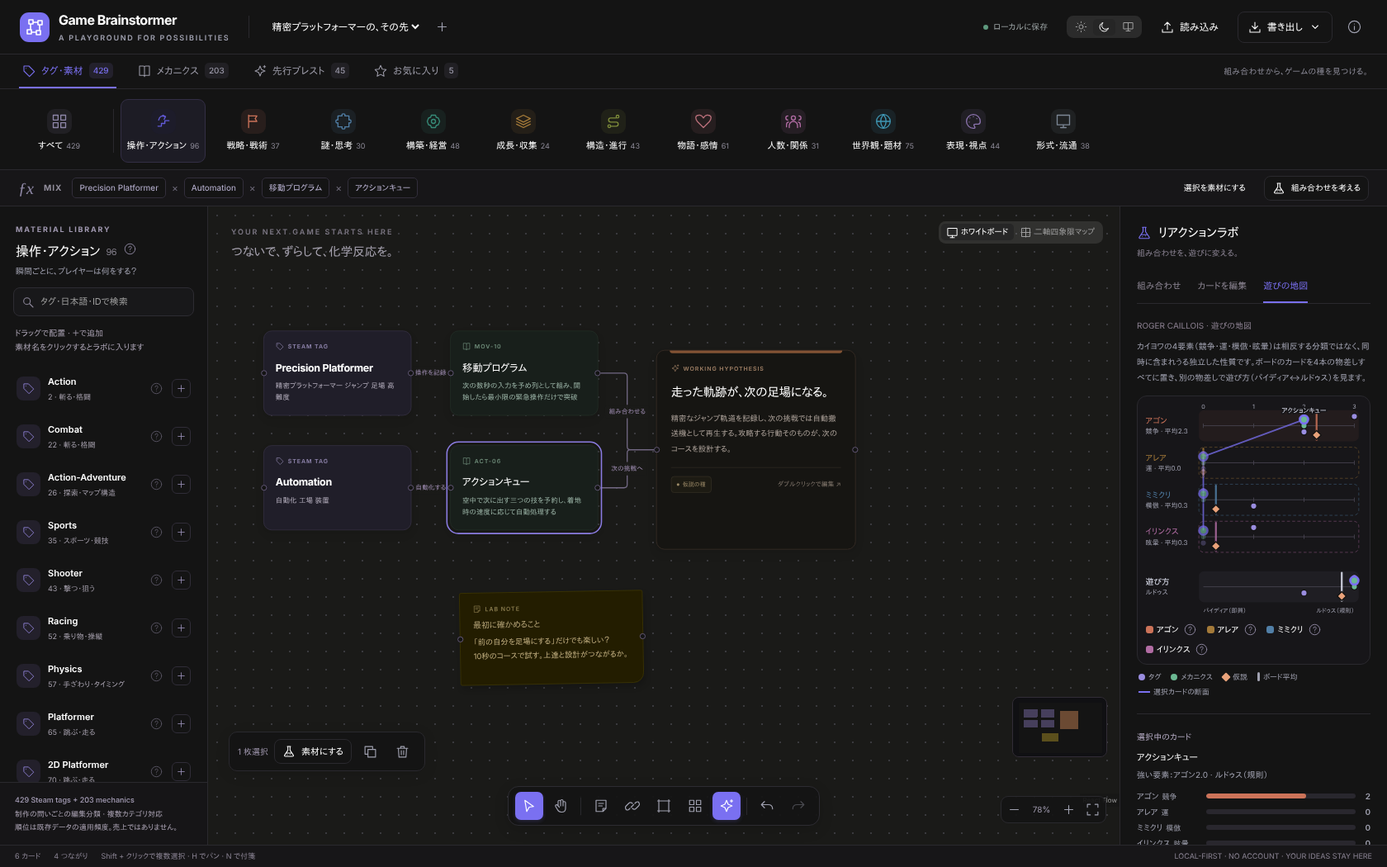
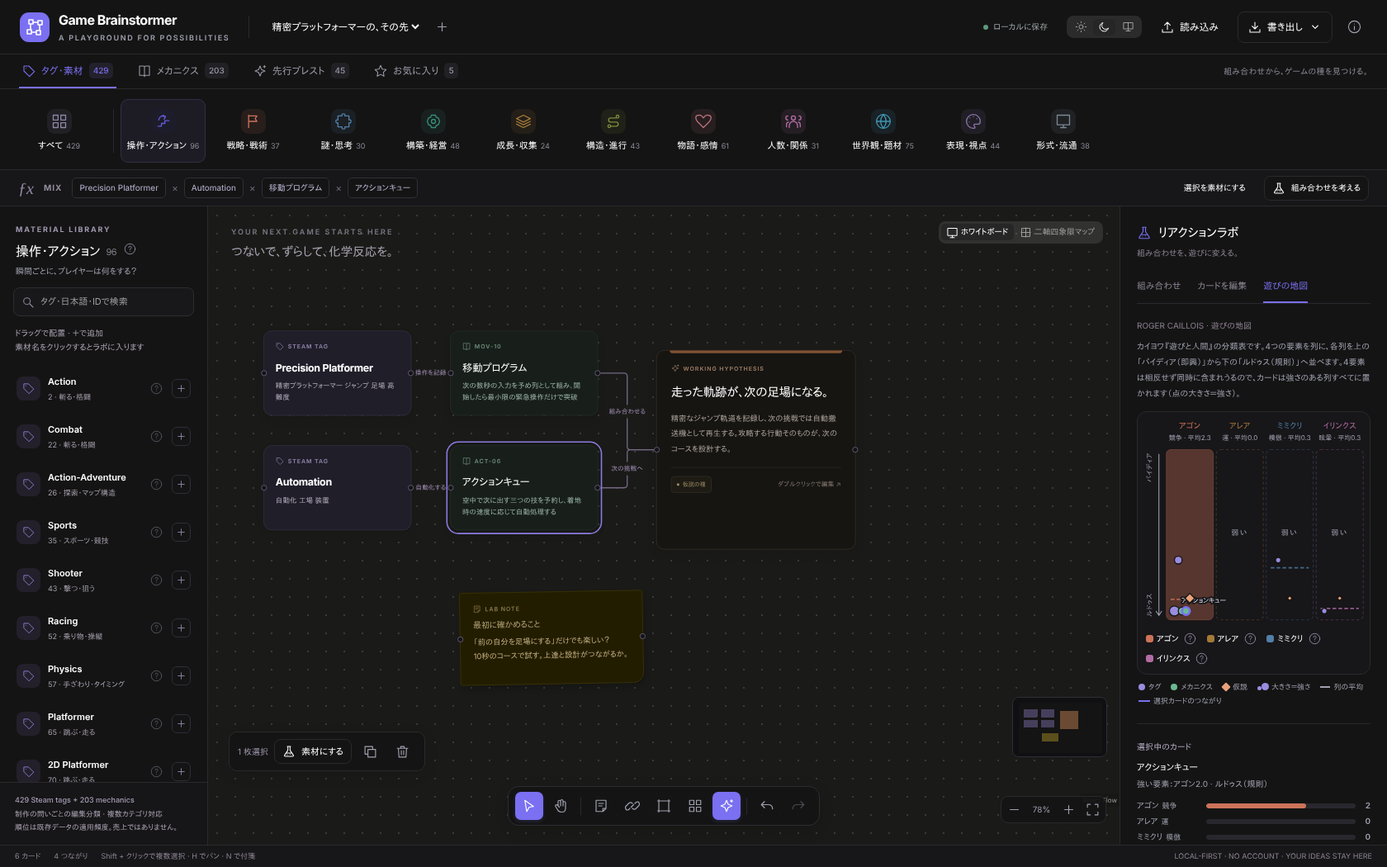
feat: restore the column layout for the Caillois map, keep independent elements
Bring back the earlier look — four element columns with tint, paidia (top) to
ludus (bottom), per-column dashed ludus average — while keeping the current
model: a card appears in every column where it has strength (marker size =
0-3 intensity), the selected card is linked across columns, column tint follows
the board's average intensity (not an exclusive share), and the pairings panel
and weak-element suggestions stay. Adds a per-element ludus average to the core.

Claude-Session: https://claude.ai/code/session_013pZRoNFywcvFNR1PtNmvYd

Changed region(s): [[0.8048, 0.3962, 0.9905, 0.9752], [0.9595, 0.6705, 0.9905, 0.701], [0.9595, 0.6095, 0.9905, 0.64]]

diff --git a/src/components/PlayMap.tsx b/src/components/PlayMap.tsx
@@ -6,23 +6,24 @@ import { Icon } from './Icons.tsx';
 import { HelpPopover, PlayBars } from './Help.tsx';
 
 /**
- * Component 1 — Caillois' elements of play as four independent scales.
- * Agon, alea, mimicry and ilinx are not opposites: every card sits on all four tracks at
- * once (0-3 each), and the selected card is drawn as one line across them. The manner of
- * play (paidia ↔ ludus) is a separate fifth track. Positions come from catalog data only.
+ * Component 1 — Caillois' map of play, laid out like his table: four columns (agon, alea,
+ * mimicry, ilinx), each running from paidia (top) to ludus (bottom).
+ * The elements are independent, not exclusive classes: a card appears in every column
+ * where it has any intensity (marker size = 0-3 strength), and the selected card is
+ * linked across columns. Column tint follows the board's average strength of that element.
+ * Positions come from catalog data only; nothing is stored.
  */
-const W = 300, LABEL = 74, X0 = LABEL + 8, X1 = W - 14, ROW = 50, TOP = 8;
-const sx = (v: number) => X0 + (v / 3) * (X1 - X0);
-const rowY = (i: number) => TOP + ROW * i + ROW / 2;
-const LUDUS_ROW = PLAY_TYPES.length + 0.35;
-const H = Math.ceil(rowY(LUDUS_ROW) + ROW / 2 + 14);
-/** Spread cards vertically within a track so equal values stay clickable (display only). */
-const jitter = (n: number) => ((n * 5) % 7 - 3) * 4.2;
+const W = 300, LEFT = 30, TOP = 44, H = 230, COL = (W - LEFT) / 4, BOTTOM = TOP + H;
+const colX = (i: number) => LEFT + COL * i;
+const ludusY = (l: number) => TOP + 12 + (l / 3) * (H - 24);
+/** Spread cards horizontally inside a column so equal values stay clickable (display only). */
+const jitter = (i: number) => ((i * 37) % 9 - 4) * 5.2;
 const LUDUS_LABEL = ['パイディア（即興）', 'やや即興', 'やや規則的', 'ルドゥス（規則）'];
 const ludusText = (l: number) => LUDUS_LABEL[Math.max(0, Math.min(3, Math.round(l)))]!;
 const fmt = (v: number) => (Math.round(v * 10) / 10).toFixed(1);
+const radius = (w: number) => 2 + w * 1.6;
 
-function ElementHelp({ type }: {
+function ColumnHelp({ type }: {
     type: PlayType;
 }) {
     const p = playInfo(type);
@@ -44,42 +45,39 @@ export function PlayMap() {
     const suggestions = suggestForPlay(catalog, suggestType, [...used, ...state.tray], 6, seed, end === 'paidia' ? 0 : end === 'ludus' ? 3 : undefined);
     const selected = board.nodes.find(n => n.id === state.selected[0]);
     const selectedItem = profile.items.find(i => i.nodeId === selected?.id);
+    const selIndex = selectedItem ? profile.items.indexOf(selectedItem) : -1;
     const select = (item: PlayItem) => store.ui({ selected: [item.nodeId], selectedEdge: null });
     const onKey = (e: KeyboardEvent, item: PlayItem) => { if (e.key === 'Enter' || e.key === ' ') { e.preventDefault(); select(item); } };
     const describe = (item: PlayItem) => { const s = strongElements(item.weights); return s.length ? s.map(t => `${playInfo(t).label}${fmt(item.weights[t])}`).join('・') : '強い要素なし'; };
-    const selIndex = selectedItem ? profile.items.indexOf(selectedItem) : -1;
+    const selectedCols = selectedItem ? PLAY_TYPES.map((p, i) => ({ i, w: selectedItem.weights[p.id] })).filter(c => c.w > 0) : [];
     return <div className="play-map-panel">
         <p className="inspector-kicker">ROGER CAILLOIS · 遊びの地図</p>
-        <p className="play-intro">カイヨワの4要素（競争・運・模倣・眩暈）は<strong>相反する分類ではなく、同時に含まれうる独立した性質</strong>です。ボードのカードを4本の物差しすべてに置き、別の物差しで遊び方（パイディア↔ルドゥス）を見ます。</p>
+        <p className="play-intro">カイヨワ『遊びと人間』の分類表です。4つの要素を列に、各列を上の「パイディア（即興）」から下の「ルドゥス（規則）」へ並べます。4要素は<strong>相反せず同時に含まれうる</strong>ので、カードは強さのある列すべてに置かれます（点の大きさ＝強さ）。</p>
         <div className="play-map-frame">
-            <svg className="play-map" viewBox={`0 0 ${W} ${H}`} role="group" aria-label="カイヨワの遊びの地図。アゴン・アレア・ミミクリ・イリンクスの独立した4本の物差しと、パイディアからルドゥスへの物差し。">
-                {PLAY_TYPES.map((p, i) => { const y = rowY(i); const lv = profile.level[p.id]; return <g key={p.id} className={`play-track ${profile.weak.includes(p.id) ? 'weak' : ''}`} style={{ '--play-color': p.color } as CSSProperties}>
-                    <rect className="play-track-bg" x={X0 - 6} y={y - ROW / 2 + 4} width={X1 - X0 + 12} height={ROW - 8} rx="7"/>
-                    <text className="play-track-label" x={4} y={y - 3}>{p.label}</text>
-                    <text className="play-track-sub" x={4} y={y + 11}>{p.meaning} · 平均{fmt(lv)}</text>
-                    <line className="play-track-axis" x1={X0} x2={X1} y1={y} y2={y}/>
-                    {[0, 1, 2, 3].map(t => <g key={t}><line className="play-tick" x1={sx(t)} x2={sx(t)} y1={y - 3} y2={y + 3}/>{i === 0 && <text className="play-tick-label" x={sx(t)} y={TOP + 2} textAnchor="middle">{t}</text>}</g>)}
-                    {profile.items.length > 0 && <path className="play-level" d={`M${sx(lv)} ${y - ROW / 2 + 6} V${y + ROW / 2 - 6}`}><title>{`ボード平均 ${fmt(lv)}`}</title></path>}
+            <svg className="play-map" viewBox={`0 0 ${W} ${BOTTOM + 8}`} role="group" aria-label="カイヨワの遊びの地図。列はアゴン・アレア・ミミクリ・イリンクス、縦はパイディアからルドゥス。カードは強さのある列すべてに表示。">
+                {PLAY_TYPES.map((p, i) => { const lv = profile.level[p.id]; const weak = profile.weak.includes(p.id); return <g key={p.id} className={`play-column ${weak ? 'gap' : ''}`} style={{ '--play-color': p.color, '--play-share': String(0.05 + (lv / 3) * 0.4) } as CSSProperties}>
+                    <rect className="play-column-bg" x={colX(i) + 2} y={TOP} width={COL - 4} height={H} rx="6"/>
+                    <text className="play-column-label" x={colX(i) + COL / 2} y={16} textAnchor="middle">{p.label}</text>
+                    <text className="play-column-sub" x={colX(i) + COL / 2} y={31} textAnchor="middle">{p.meaning} · 平均{fmt(lv)}</text>
+                    {weak && <text className="play-gap-label" x={colX(i) + COL / 2} y={TOP + H / 2} textAnchor="middle">弱い</text>}
+                    {profile.ludusBy[p.id] !== null && <line className="play-ludus-avg" x1={colX(i) + 8} x2={colX(i) + COL - 8} y1={ludusY(profile.ludusBy[p.id]!)} y2={ludusY(profile.ludusBy[p.id]!)}><title>{`${p.label}を含むカードの遊び方の平均：${ludusText(profile.ludusBy[p.id]!)}`}</title></line>}
                 </g>; })}
-                <g className="play-track ludus-track">
-                    <rect className="play-track-bg" x={X0 - 6} y={rowY(LUDUS_ROW) - ROW / 2 + 4} width={X1 - X0 + 12} height={ROW - 8} rx="7"/>
-                    <text className="play-track-label" x={4} y={rowY(LUDUS_ROW) - 3}>遊び方</text>
-                    <text className="play-track-sub" x={4} y={rowY(LUDUS_ROW) + 11}>{profile.ludus === null ? '—' : ludusText(profile.ludus).replace(/（.*）/, '')}</text>
-                    <line className="play-track-axis" x1={X0} x2={X1} y1={rowY(LUDUS_ROW)} y2={rowY(LUDUS_ROW)}/>
-                    <text className="play-tick-label" x={X0} y={rowY(LUDUS_ROW) + ROW / 2 + 10} textAnchor="start">{PAIDIA_LUDUS.paidia.label}（即興）</text>
-                    <text className="play-tick-label" x={X1} y={rowY(LUDUS_ROW) + ROW / 2 + 10} textAnchor="end">{PAIDIA_LUDUS.ludus.label}（規則）</text>
-                    {profile.ludus !== null && <path className="play-level" d={`M${sx(profile.ludus)} ${rowY(LUDUS_ROW) - ROW / 2 + 6} V${rowY(LUDUS_ROW) + ROW / 2 - 6}`}/>}
-                </g>
-                {selectedItem && <polyline className="play-profile-line" points={PLAY_TYPES.map((p, i) => `${sx(selectedItem.weights[p.id])},${rowY(i) + jitter(selIndex)}`).join(' ')}/>}
-                {profile.items.map((item, n) => { const isSel = state.selected.includes(item.nodeId); const cls = item.kind === 'material' ? item.materialKind : item.kind; const marks = [...PLAY_TYPES.map((p, i) => ({ key: p.id, x: sx(item.weights[p.id]), y: rowY(i), title: `${item.label}：${p.label} ${fmt(item.weights[p.id])}`, faint: item.weights[p.id] === 0 })), { key: 'ludus', x: sx(item.ludus), y: rowY(LUDUS_ROW), title: `${item.label}：${ludusText(item.ludus)}`, faint: false }];
+                <text className="play-axis-label" x={12} y={TOP + 4} textAnchor="end" transform={`rotate(-90 12 ${TOP + 4})`}>パイディア</text>
+                <text className="play-axis-label" x={12} y={BOTTOM - 4} textAnchor="start" transform={`rotate(-90 12 ${BOTTOM - 4})`}>ルドゥス</text>
+                <path className="play-axis-arrow" d={`M22 ${TOP + 6} V${BOTTOM - 6} M18 ${BOTTOM - 12} L22 ${BOTTOM - 6} L26 ${BOTTOM - 12}`}/>
+                {selectedItem && selectedCols.length > 1 && <polyline className="play-profile-line" points={selectedCols.map(c => `${colX(c.i) + COL / 2 + jitter(selIndex)},${ludusY(selectedItem.ludus)}`).join(' ')}/>}
+                {profile.items.map((item, n) => { const isSel = state.selected.includes(item.nodeId); const cls = item.kind === 'material' ? item.materialKind : item.kind; const cols = PLAY_TYPES.map((p, i) => ({ p, i, w: item.weights[p.id] })).filter(c => c.w > 0);
                     return <g key={item.nodeId} className={`play-point ${cls} ${isSel ? 'selected' : ''}`} tabIndex={0} role="button" aria-pressed={isSel} aria-label={`${item.label}（${describe(item)}・${ludusText(item.ludus)}）`} onKeyDown={e => onKey(e, item)} onClick={() => select(item)}>
-                        {marks.map(m => <g key={m.key} className={m.faint ? 'zero' : ''} transform={`translate(${m.x} ${m.y + jitter(n)})`}><title>{m.title}</title><circle className="hit" r="8"/>{item.kind === 'idea' ? <path className="mark" d="M0 -6L6 0L0 6L-6 0Z"/> : <circle className="mark" r={isSel ? 5.5 : 4.2}/>}</g>)}
-                        {isSel && <text className="point-label" x={Math.min(Math.max(sx(item.weights.agon), X0 + 30), X1 - 30)} y={rowY(0) + jitter(n) - 9} textAnchor="middle">{item.label.length > 14 ? item.label.slice(0, 13) + '…' : item.label}</text>}
+                        {cols.map(({ p, i, w }) => { const r = radius(w); return <g key={p.id} transform={`translate(${colX(i) + COL / 2 + jitter(n)} ${ludusY(item.ludus)})`}>
+                            <title>{`${item.label}：${p.label} ${fmt(w)}`}</title><circle className="hit" r={Math.max(9, r + 3)}/>
+                            {item.kind === 'idea' ? <path className="mark" d={`M0 ${-r - 1}L${r + 1} 0L0 ${r + 1}L${-r - 1} 0Z`}/> : <circle className="mark" r={r}/>}
+                        </g>; })}
+                        {isSel && cols[0] && <text className="point-label" x={colX(cols[0].i) + COL / 2 + jitter(n) + (cols[0].i === 3 ? 6 : -6)} y={ludusY(item.ludus) - radius(cols[0].w) - 6} textAnchor={cols[0].i >= 2 ? 'end' : 'start'}>{item.label.length > 14 ? item.label.slice(0, 13) + '…' : item.label}</text>}
                     </g>; })}
             </svg>
-            <div className="play-map-help">{PLAY_TYPES.map(p => <span key={p.id} className="play-chip" style={{ '--play-color': p.color } as CSSProperties}><span className="play-swatch"/>{p.label}<ElementHelp type={p.id}/></span>)}</div>
+            <div className="play-map-help">{PLAY_TYPES.map(p => <span key={p.id} className="play-chip" style={{ '--play-color': p.color } as CSSProperties}><span className="play-swatch"/>{p.label}<ColumnHelp type={p.id}/></span>)}</div>
         </div>
-        <div className="play-legend" aria-hidden="true"><span><i className="dot tag"/>タグ</span><span><i className="dot mechanic"/>メカニクス</span><span><i className="dot idea"/>仮説</span><span><i className="dot avg"/>ボード平均</span><span><i className="dot line"/>選択カードの断面</span></div>
+        <div className="play-legend" aria-hidden="true"><span><i className="dot tag"/>タグ</span><span><i className="dot mechanic"/>メカニクス</span><span><i className="dot idea"/>仮説</span><span><i className="dot size"/>大きさ＝強さ</span><span><i className="dot avg"/>列の平均</span><span><i className="dot line"/>選択カードのつながり</span></div>
         {!profile.items.length && <div className="lab-tip"><h3><Icon name="spark"/>まだ地図に置けるカードがありません</h3><p>タグやメカニクスをボードに追加すると、4要素の強さが見えてきます。付箋は対象外です。</p></div>}
         <div className="panel-divider"/>
         <div className="field-label">選択中のカード</div>

diff --git a/src/App.tsx b/src/App.tsx
@@ -16,7 +16,7 @@ const BoardCanvas = lazy(() => import('./components/Board.tsx').then(m => ({ def
 export function downloadFile(name: string, contents: string, type = 'application/json') { const url = URL.createObjectURL(new Blob([contents], { type })); const a = document.createElement('a'); a.href = url; a.download = name; a.click(); setTimeout(() => URL.revokeObjectURL(url), 1000); }
 function Help({ close }: {
     close: () => void;
-}) { const ref = useRef<HTMLDialogElement>(null); useEffect(() => { ref.current?.showModal(); return () => ref.current?.close(); }, []); return <dialog ref={ref} className="help-native" onCancel={close}><button className="icon-btn help-close" aria-label="ヘルプを閉じる" onClick={close}><Icon name="x"/></button><h2>まだない遊びを、実験しよう。</h2><h3>01 / 素材を探す</h3><p>上のリボンは、ゲーム制作で決める問いごとの11分類（操作・戦略・謎・構築・成長・構造・物語・人数・世界観・表現・形式）。タグ429件・メカニクス203件を横断します。関連する分類にも重ねて現れます。日本語の同義語・タグ名・メカニクスIDで検索できます。各素材の「?」で説明と代表作を確認できます。</p><h3>02 / つないで、混ぜる</h3><p>素材をドラッグ、または＋で配置。素材名のクリックでラボへ送れます。カード右端から別のカード左端へ線を引くか、接続ツールで2枚を選びます。Shiftで複数選択。「素材にする」でまとめて混ぜられます。</p><h3>03 / 化学反応を仮説にする</h3><p>ベースの遊び、素材、変換の方法を選び「反応を試す」。出力はルールベースの問いと既存のブレスト例です。AIや売上予測による評価ではありません。コアルール・プレイ例・最小の実験・懸念点を編集して比較します。</p><h3>04 / カイヨワの遊びの地図</h3><p>右パネルの「遊びの地図」は、ロジェ・カイヨワの4要素（アゴン＝競争、アレア＝運、ミミクリ＝模倣、イリンクス＝眩暈）を、相反する分類ではなく独立した4本の物差し（0〜3）として表示します。ひとつのカードは4本すべてに同時に乗り、選んだカードは線でつながります。遊び方（パイディア＝即興 ↔ ルドゥス＝規則）は別の物差しです。組み合わせ欄で2要素が同時に強いカードを数え、弱い要素を重ねる素材を提案します。強さは編集上の目安で、自動評価ではありません。</p><h3>05 / 二軸四象限マップ</h3><p>ボード上部の切り替えで「二軸四象限マップ」を開きます。軸を自分で決め（プリセットあり）、カードをドラッグで置いて比べる、カイヨワとは別の汎用ポジショニングマップです。空いた象限には「狙う付箋」を置けます。ボードごとに保存されます。</p><h3>保存と出典</h3><p>データはこのブラウザのlocalStorageにのみ保存。JSONは全ボードのバックアップ、Markdownは企画書、SVGはボード画像です。読み込みは現在のボードを削除せず追加します。元データは会話で作った2026-10-11のスナップショット。順位は適用頻度で、売上ではありません。書籍本文ではなく項目名・IDと独自の応用案を収録しています。</p><h3>キーボード</h3><p>右上で表示テーマ（ライト・ダーク・自動）を切り替えられます。<br />V 選択 / H 移動 / N 付箋 / Delete 削除 / ⌘・Ctrl + Z 戻す / Shift + ⌘・Ctrl + Z やり直す / ⌘・Ctrl + D 複製。入力欄ではブラウザ標準の編集を優先します。</p><Button label="ボードに戻る" variant="primary" onClick={close}/></dialog>; }
+}) { const ref = useRef<HTMLDialogElement>(null); useEffect(() => { ref.current?.showModal(); return () => ref.current?.close(); }, []); return <dialog ref={ref} className="help-native" onCancel={close}><button className="icon-btn help-close" aria-label="ヘルプを閉じる" onClick={close}><Icon name="x"/></button><h2>まだない遊びを、実験しよう。</h2><h3>01 / 素材を探す</h3><p>上のリボンは、ゲーム制作で決める問いごとの11分類（操作・戦略・謎・構築・成長・構造・物語・人数・世界観・表現・形式）。タグ429件・メカニクス203件を横断します。関連する分類にも重ねて現れます。日本語の同義語・タグ名・メカニクスIDで検索できます。各素材の「?」で説明と代表作を確認できます。</p><h3>02 / つないで、混ぜる</h3><p>素材をドラッグ、または＋で配置。素材名のクリックでラボへ送れます。カード右端から別のカード左端へ線を引くか、接続ツールで2枚を選びます。Shiftで複数選択。「素材にする」でまとめて混ぜられます。</p><h3>03 / 化学反応を仮説にする</h3><p>ベースの遊び、素材、変換の方法を選び「反応を試す」。出力はルールベースの問いと既存のブレスト例です。AIや売上予測による評価ではありません。コアルール・プレイ例・最小の実験・懸念点を編集して比較します。</p><h3>04 / カイヨワの遊びの地図</h3><p>右パネルの「遊びの地図」は、ロジェ・カイヨワの4要素（アゴン＝競争、アレア＝運、ミミクリ＝模倣、イリンクス＝眩暈）を、カイヨワの分類表どおり4列に並べ、縦を上のパイディア（即興）から下のルドゥス（規則）とします。4要素は相反しないので、カードは強さのある列すべてに同時に置かれ（点の大きさ＝強さ）、選んだカードは列をまたいでつながります。組み合わせ欄で2要素が同時に強いカードを数え、弱い要素を重ねる素材を提案します。強さは編集上の目安で、自動評価ではありません。</p><h3>05 / 二軸四象限マップ</h3><p>ボード上部の切り替えで「二軸四象限マップ」を開きます。軸を自分で決め（プリセットあり）、カードをドラッグで置いて比べる、カイヨワとは別の汎用ポジショニングマップです。空いた象限には「狙う付箋」を置けます。ボードごとに保存されます。</p><h3>保存と出典</h3><p>データはこのブラウザのlocalStorageにのみ保存。JSONは全ボードのバックアップ、Markdownは企画書、SVGはボード画像です。読み込みは現在のボードを削除せず追加します。元データは会話で作った2026-10-11のスナップショット。順位は適用頻度で、売上ではありません。書籍本文ではなく項目名・IDと独自の応用案を収録しています。</p><h3>キーボード</h3><p>右上で表示テーマ（ライト・ダーク・自動）を切り替えられます。<br />V 選択 / H 移動 / N 付箋 / Delete 削除 / ⌘・Ctrl + Z 戻す / Shift + ⌘・Ctrl + Z やり直す / ⌘・Ctrl + D 複製。入力欄ではブラウザ標準の編集を優先します。</p><Button label="ボードに戻る" variant="primary" onClick={close}/></dialog>; }
 const THEMES: [ThemeMode, string, string][] = [['light', 'ライト', 'sun'], ['dark', 'ダーク', 'moon'], ['system', '自動（OSに合わせる）', 'auto']];
 function ThemeSwitch({ mode, onChange }: {
     mode: ThemeMode;

diff --git a/portable/game-brainstormer.html b/portable/game-brainstormer.html
@@ -31,13 +31,11 @@ svg.icon{width:20px;height:20px;fill:none;stroke:currentColor;stroke-width:1.6;s
 .play-map-help{display:flex;flex-wrap:wrap;gap:4px 10px;padding:6px 4px 2px}.play-chip{display:inline-flex;align-items:center;gap:4px;font-size:10px;font-weight:600}.play-swatch{width:9px;height:9px;border-radius:3px;background:var(--play-color);display:inline-block;flex-shrink:0}.help-pop-head .play-swatch{width:14px;height:14px}.play-legend{display:flex;flex-wrap:wrap;gap:4px 12px;font-size:9px;color:var(--muted);margin:8px 2px 0}.play-legend .dot{display:inline-block;width:8px;height:8px;border-radius:50%;margin-right:4px;vertical-align:-1px;background:light-dark(#8073bf,#9a8de0)}.play-legend .dot.mechanic{background:light-dark(#4f9a76,#6bb892)}.play-legend .dot.idea{background:light-dark(#e09062,#e9a27a);border-radius:1px;transform:rotate(45deg)}.play-legend .dot.note{background:light-dark(#d9b93a,#e0c656);border-radius:2px}
 .play-selected{display:grid;gap:5px;font-size:11px}.play-selected span{color:var(--muted);font-size:10px}.play-targets .operator{display:inline-flex;align-items:center;gap:5px}.play-targets .operator::before{content:'';width:7px;height:7px;border-radius:2px;background:var(--play-color)}.suggestion-list{display:grid;gap:2px;margin:4px 0}.suggestion-row{display:flex;gap:8px;align-items:center;padding:6px 4px;border-radius:8px}.suggestion-row:hover{background:light-dark(#f8f7fd,#19191d)}.suggestion-row .library-label small{white-space:normal;display:-webkit-box;-webkit-line-clamp:2;-webkit-box-orient:vertical;line-height:1.5}.play-source{margin-top:14px;font-size:9px}
 @media(max-width:700px){.theme-switch{display:none}.menu-theme{display:flex}}
-/* Component 1: Caillois map — four independent 0-3 scales plus a paidia ↔ ludus scale */
-.play-track-bg{fill:color-mix(in srgb,var(--play-color,var(--muted)) 7%,transparent)}.play-track.weak .play-track-bg{fill:transparent;stroke:color-mix(in srgb,var(--play-color) 45%,transparent);stroke-dasharray:4 3}.ludus-track .play-track-bg{fill:light-dark(#f3f2f6,#1f1e23)}
-.play-track-label{font-size:11px;font-weight:700;fill:var(--play-color,var(--text))}.play-track-sub{font-size:9px;fill:var(--muted)}.play-track-axis{stroke:light-dark(#cfcad9,#47434f);stroke-width:1}.play-tick{stroke:light-dark(#cfcad9,#47434f)}.play-tick-label{font-size:8px;fill:var(--muted)}
-.play-level{stroke:var(--play-color,var(--text));stroke-width:2.5;stroke-linecap:round;opacity:.85}.ludus-track .play-level{stroke:var(--text)}
-.play-profile-line{fill:none;stroke:var(--accent);stroke-width:2;stroke-linejoin:round;opacity:.75;pointer-events:none}
-.play-point .zero{opacity:.28}.play-point.selected .zero{opacity:.7}
-.play-legend .dot.avg{width:3px;height:11px;border-radius:2px;background:var(--muted);vertical-align:-2px}.play-legend .dot.line{width:14px;height:0;border-radius:0;border-top:2px solid var(--accent);vertical-align:2px;background:none}.play-ends{margin-top:6px}
+/* Component 1: Caillois map — four element columns, paidia (top) to ludus (bottom).
+   Elements are independent: a card appears in every column it has strength in. */
+.play-column-bg{fill:color-mix(in srgb,var(--play-color) calc(var(--play-share) * 100%),transparent);stroke:color-mix(in srgb,var(--play-color) 35%,transparent);stroke-width:1}.play-column.gap .play-column-bg{stroke-dasharray:4 3;fill:transparent}.play-column-label{font-size:11px;font-weight:700;fill:var(--play-color)}.play-column-sub{font-size:9px;fill:var(--muted)}.play-gap-label{font-size:10px;fill:var(--muted);letter-spacing:2px}.play-ludus-avg{stroke:var(--play-color);stroke-width:2;stroke-dasharray:5 3;opacity:.8}.play-axis-label{font-size:9px;fill:var(--muted);letter-spacing:.5px}.play-axis-arrow{stroke:var(--muted);stroke-width:1.2;fill:none}
+.play-profile-line{fill:none;stroke:var(--accent);stroke-width:2;stroke-linejoin:round;opacity:.7;pointer-events:none}
+.play-legend .dot.avg{width:12px;height:0;border-radius:0;border-top:2px dashed var(--muted);vertical-align:2px;background:none}.play-legend .dot.line{width:14px;height:0;border-radius:0;border-top:2px solid var(--accent);vertical-align:2px;background:none}.play-legend .dot.size{width:5px;height:5px;margin-right:1px;box-shadow:7px -2px 0 2px light-dark(#8073bf,#9a8de0);margin-right:12px}.play-ends{margin-top:6px}
 .play-pairs{list-style:none;margin:0;padding:0;display:grid;gap:6px}.play-pairs li{display:grid;grid-template-columns:1fr auto;gap:2px 8px;font-size:10px;padding:7px 9px;border:1px solid var(--line);border-radius:8px;color:var(--muted)}.play-pairs li.has{color:var(--text);border-color:light-dark(#d9d2ec,#3d3850)}.play-pairs .pair-name{font-weight:600;display:inline-flex;align-items:center;gap:4px}.play-pairs .pair-name i{display:inline-block;width:7px;height:7px;border-radius:2px}.play-pairs b{font-weight:600}.play-pairs small{grid-column:1/-1;color:var(--muted);line-height:1.6;font-size:9px}
 /* Board view switch (whiteboard / two-axis map) */
 .view-switch{position:absolute;top:18px;right:20px;z-index:9}.board-area .board-chip{display:none}.view-switch svg.icon{width:15px;height:15px}

diff --git a/src/styles.css b/src/styles.css
@@ -30,13 +30,11 @@ svg.icon{width:20px;height:20px;fill:none;stroke:currentColor;stroke-width:1.6;s
 .play-map-help{display:flex;flex-wrap:wrap;gap:4px 10px;padding:6px 4px 2px}.play-chip{display:inline-flex;align-items:center;gap:4px;font-size:10px;font-weight:600}.play-swatch{width:9px;height:9px;border-radius:3px;background:var(--play-color);display:inline-block;flex-shrink:0}.help-pop-head .play-swatch{width:14px;height:14px}.play-legend{display:flex;flex-wrap:wrap;gap:4px 12px;font-size:9px;color:var(--muted);margin:8px 2px 0}.play-legend .dot{display:inline-block;width:8px;height:8px;border-radius:50%;margin-right:4px;vertical-align:-1px;background:light-dark(#8073bf,#9a8de0)}.play-legend .dot.mechanic{background:light-dark(#4f9a76,#6bb892)}.play-legend .dot.idea{background:light-dark(#e09062,#e9a27a);border-radius:1px;transform:rotate(45deg)}.play-legend .dot.note{background:light-dark(#d9b93a,#e0c656);border-radius:2px}
 .play-selected{display:grid;gap:5px;font-size:11px}.play-selected span{color:var(--muted);font-size:10px}.play-targets .operator{display:inline-flex;align-items:center;gap:5px}.play-targets .operator::before{content:'';width:7px;height:7px;border-radius:2px;background:var(--play-color)}.suggestion-list{display:grid;gap:2px;margin:4px 0}.suggestion-row{display:flex;gap:8px;align-items:center;padding:6px 4px;border-radius:8px}.suggestion-row:hover{background:light-dark(#f8f7fd,#19191d)}.suggestion-row .library-label small{white-space:normal;display:-webkit-box;-webkit-line-clamp:2;-webkit-box-orient:vertical;line-height:1.5}.play-source{margin-top:14px;font-size:9px}
 @media(max-width:700px){.theme-switch{display:none}.menu-theme{display:flex}}
-/* Component 1: Caillois map — four independent 0-3 scales plus a paidia ↔ ludus scale */
-.play-track-bg{fill:color-mix(in srgb,var(--play-color,var(--muted)) 7%,transparent)}.play-track.weak .play-track-bg{fill:transparent;stroke:color-mix(in srgb,var(--play-color) 45%,transparent);stroke-dasharray:4 3}.ludus-track .play-track-bg{fill:light-dark(#f3f2f6,#1f1e23)}
-.play-track-label{font-size:11px;font-weight:700;fill:var(--play-color,var(--text))}.play-track-sub{font-size:9px;fill:var(--muted)}.play-track-axis{stroke:light-dark(#cfcad9,#47434f);stroke-width:1}.play-tick{stroke:light-dark(#cfcad9,#47434f)}.play-tick-label{font-size:8px;fill:var(--muted)}
-.play-level{stroke:var(--play-color,var(--text));stroke-width:2.5;stroke-linecap:round;opacity:.85}.ludus-track .play-level{stroke:var(--text)}
-.play-profile-line{fill:none;stroke:var(--accent);stroke-width:2;stroke-linejoin:round;opacity:.75;pointer-events:none}
-.play-point .zero{opacity:.28}.play-point.selected .zero{opacity:.7}
-.play-legend .dot.avg{width:3px;height:11px;border-radius:2px;background:var(--muted);vertical-align:-2px}.play-legend .dot.line{width:14px;height:0;border-radius:0;border-top:2px solid var(--accent);vertical-align:2px;background:none}.play-ends{margin-top:6px}
+/* Component 1: Caillois map — four element columns, paidia (top) to ludus (bottom).
+   Elements are independent: a card appears in every column it has strength in. */
+.play-column-bg{fill:color-mix(in srgb,var(--play-color) calc(var(--play-share) * 100%),transparent);stroke:color-mix(in srgb,var(--play-color) 35%,transparent);stroke-width:1}.play-column.gap .play-column-bg{stroke-dasharray:4 3;fill:transparent}.play-column-label{font-size:11px;font-weight:700;fill:var(--play-color)}.play-column-sub{font-size:9px;fill:var(--muted)}.play-gap-label{font-size:10px;fill:var(--muted);letter-spacing:2px}.play-ludus-avg{stroke:var(--play-color);stroke-width:2;stroke-dasharray:5 3;opacity:.8}.play-axis-label{font-size:9px;fill:var(--muted);letter-spacing:.5px}.play-axis-arrow{stroke:var(--muted);stroke-width:1.2;fill:none}
+.play-profile-line{fill:none;stroke:var(--accent);stroke-width:2;stroke-linejoin:round;opacity:.7;pointer-events:none}
+.play-legend .dot.avg{width:12px;height:0;border-radius:0;border-top:2px dashed var(--muted);vertical-align:2px;background:none}.play-legend .dot.line{width:14px;height:0;border-radius:0;border-top:2px solid var(--accent);vertical-align:2px;background:none}.play-legend .dot.size{width:5px;height:5px;margin-right:1px;box-shadow:7px -2px 0 2px light-dark(#8073bf,#9a8de0);margin-right:12px}.play-ends{margin-top:6px}
 .play-pairs{list-style:none;margin:0;padding:0;display:grid;gap:6px}.play-pairs li{display:grid;grid-template-columns:1fr auto;gap:2px 8px;font-size:10px;padding:7px 9px;border:1px solid var(--line);border-radius:8px;color:var(--muted)}.play-pairs li.has{color:var(--text);border-color:light-dark(#d9d2ec,#3d3850)}.play-pairs .pair-name{font-weight:600;display:inline-flex;align-items:center;gap:4px}.play-pairs .pair-name i{display:inline-block;width:7px;height:7px;border-radius:2px}.play-pairs b{font-weight:600}.play-pairs small{grid-column:1/-1;color:var(--muted);line-height:1.6;font-size:9px}
 /* Board view switch (whiteboard / two-axis map) */
 .view-switch{position:absolute;top:18px;right:20px;z-index:9}.board-area .board-chip{display:none}.view-switch svg.icon{width:15px;height:15px}

diff --git a/tests/app.spec.ts b/tests/app.spec.ts
@@ -104,19 +104,20 @@ test('help popovers explain tags, mechanics and categories with representative w
     await expect(cluster.getByText('どんな計画と読み合いをさせる？')).toBeVisible();
     await expect(cluster.getByText(/戦術・部隊/)).toBeVisible();
 });
-test('component 1: Caillois map shows four independent elements and the paidia–ludus scale', async ({ page }) => {
+test('component 1: Caillois map lays out four columns from paidia to ludus with independent elements', async ({ page }) => {
     await page.goto('/');
     await expect(page.locator('.react-flow')).toBeVisible();
     await page.getByRole('button', { name: 'カイヨワの遊びの地図' }).click();
     const map = page.getByRole('group', { name: /カイヨワの遊びの地図/ });
     await expect(map).toBeVisible();
-    for (const label of ['アゴン', 'アレア', 'ミミクリ', 'イリンクス', '遊び方'])
+    for (const label of ['アゴン', 'アレア', 'ミミクリ', 'イリンクス', 'パイディア', 'ルドゥス'])
         await expect(map.getByText(label, { exact: true })).toBeVisible();
-    await expect(page.getByText('相反する分類ではなく、同時に含まれうる独立した性質')).toBeVisible();
-    // Every card is drawn on all four element scales plus the paidia–ludus scale.
+    await expect(page.getByText('相反せず同時に含まれうる')).toBeVisible();
     await expect(page.locator('.play-point')).toHaveCount(5);
-    await expect(page.locator('.play-point').first().locator('.mark')).toHaveCount(5);
-    await page.locator('.play-point.idea').focus();
+    // The hypothesis mixes several elements, so it appears in more than one column at once.
+    const idea = page.locator('.play-point.idea');
+    expect(await idea.locator('.mark').count()).toBeGreaterThan(1);
+    await idea.focus();
     await page.keyboard.press('Enter');
     await expect(page.locator('.play-profile-line')).toHaveCount(1);
     await expect(page.locator('.play-selected')).toContainText('強い要素：');

diff --git a/src/core/caillois.ts b/src/core/caillois.ts
@@ -102,6 +102,8 @@ export interface PlayProfile {
     present: PlayWeights;
     /** Average paidia (0) … ludus (3) across cards, null when the board has no play cards. */
     ludus: number | null;
+    /** Per element, the paidia–ludus average of the cards that contain it (weighted by intensity). */
+    ludusBy: Record<PlayType, number | null>;
     /** Elements whose board average is below `weakBelow`, weakest first. */
     weak: PlayType[];
     /** For every pair of elements, how many cards are clearly strong in both at once. */
@@ -115,7 +117,8 @@ export function playProfile(c: Catalog, board: Board, weakBelow = 1): PlayProfil
     const present = Object.fromEntries(PLAY_TYPES.map(p => [p.id, items.filter(i => i.weights[p.id] >= 2).length])) as PlayWeights;
     const weak = n ? PLAY_TYPES.filter(p => level[p.id] < weakBelow).sort((a, b) => level[a.id] - level[b.id]).map(p => p.id) : [];
     const pairs = PLAY_PAIRS.map(({ a, b }) => ({ a, b, count: items.filter(i => i.weights[a] >= 2 && i.weights[b] >= 2).length }));
-    return { items, level, present, ludus: n ? round(items.reduce((a, i) => a + i.ludus, 0) / n) : null, weak, pairs };
+    const ludusBy = Object.fromEntries(PLAY_TYPES.map(p => [p.id, sum[p.id] ? round(items.reduce((a, i) => a + i.ludus * i.weights[p.id], 0) / sum[p.id]) : null])) as Record<PlayType, number | null>;
+    return { items, level, present, ludus: n ? round(items.reduce((a, i) => a + i.ludus, 0) / n) : null, ludusBy, weak, pairs };
 }
 /**
  * Deterministic suggestions that strengthen one element: materials where it is strong (≥ 2),

diff --git a/README.md b/README.md
@@ -145,19 +145,19 @@ Excelの数式リボンのように、上段から分類を選びます。分類
 
 右パネルの「遊びの地図」タブ、またはボード下部ツールバーの✦ボタンで開きます。ロジェ・カイヨワ『遊びと人間』の4要素を扱います。
 
-**4要素は相反する分類ではありません。** ひとつのゲームに競争も運も模倣も眩暈も同時に入りえます（レースゲーム＝競争×眩暈、ポーカー＝競争×運）。そこで象限や列に振り分けず、**独立した4本の物差し（0〜3）**として並べています。
+**4要素は相反する分類ではありません。** ひとつのゲームに競争も運も模倣も眩暈も同時に入りえます（レースゲーム＝競争×眩暈、ポーカー＝競争×運）。見た目はカイヨワの分類表どおり4列に並べ、縦を上のパイディア（即興）から下のルドゥス（規則）としつつ、カードは1列に振り分けず、**強さのある列すべてに同時に置きます**（点の大きさ＝強さ0〜3）。
 
-| 物差し | 意味 | パイディア（即興）の例 | ルドゥス（規則）の例 |
+| 列 | 意味 | パイディア（即興）の例 | ルドゥス（規則）の例 |
 |---|---|---|---|
 | アゴン | 競争 | 取っ組み合い | スポーツ、チェス |
 | アレア | 運 | 表か裏か | ルーレット、宝くじ |
 | ミミクリ | 模倣 | ままごと | 演劇 |
 | イリンクス | 眩暈 | くるくる回る | スキー、登山 |
-| 遊び方 | パイディア ↔ ルドゥス | （別の物差し） | |
 
-- ボード上のタグ・メカニクス・仮説を、素材データから**自動で**4本すべてに同時に置きます。選んだカードは4本を線でつなぎ（カードの断面）、各物差しにボード平均を表示します。仮説カードは素材の平均です。
+- ボード上のタグ・メカニクス・仮説を素材データから**自動で**配置します。縦位置はカードの遊び方（規則性0〜3）、選んだカードは列をまたいで線でつながります。仮説カードは素材の平均です。
+- 列の色の濃さは各要素の**ボード平均の強さ**、破線はその要素を含むカードの遊び方の平均です。平均1未満の列は「弱い」と表示します。
 - 「組み合わせ」欄では、6通りの組み合わせについて2要素とも強い（2以上）カードの数を数え、カイヨワ自身の組み合わせ論（基本的／偶然的／結びつきにくい）とゲーム例を添えます。
-- 平均が1未満の要素を「弱い要素」とし、今ある要素を消さずに重ねる素材を提案します（パイディア寄り／ルドゥス寄りも指定できます）。
+- 弱い要素について、今ある要素を消さずに重ねる素材を提案します（パイディア寄り／ルドゥス寄りも指定できます）。
 - 手で動かす機能はありません。素材の性質を読むための**分析レンズ**です。強さと規則性は編集上の目安で、プレイヤー調査や評価ではありません。計算は `src/core/caillois.ts` にあります。
 
 ![カイヨワの遊びの地図（React版）](docs/images/react-play-map.png)

diff --git a/docs/VERIFICATION.md b/docs/VERIFICATION.md
@@ -7,7 +7,7 @@ Node 26.13.0 / pnpm 12.18.0（`pnpm install --frozen-lockfile`、依存の追加
 - `pnpm test`：38件すべて成功（[core-test-results.txt](core-test-results.txt)）。新規：分類の網羅、注釈の網羅と値域、規則性（パイディア↔ルドゥス）の網羅、カイヨワの4要素が独立していること（複数要素が同時に強い素材、組み合わせの数え上げ、仮説は素材の平均、提案は他の要素を排除しない）、四象限の象限判定・配置・クランプ・取り外し・Undo・カード削除時の掃除・プリセット切替・読み込み検証・Markdown出力、旧JSONの互換。
 - `pnpm data:build`：429タグ・203メカニクスすべてが分類・注釈・規則性に1件ずつ対応すること、未知キーがないことを生成時に検証。
 - `pnpm build`：クライアント・SSR・HTMLプリレンダーの全工程が成功。Astryx Popover・SegmentedControlもSSR可能。
-- React版Playwright E2E：9件成功（既存5件＋テーマ切替と再読み込み後の保持、説明ポップアップ、コンポーネント1：カイヨワの4本の独立した物差し・カードの断面・組み合わせ・弱い要素からの追加、コンポーネント2：二軸四象限マップのドラッグ配置・軸の編集・空白への付箋・Deleteでの取り外し・再読み込み後の保存）。`tests/screenshots.spec.ts` の撮影2件も成功し、`docs/images/react-*.png` を生成。
+- React版Playwright E2E：9件成功（既存5件＋テーマ切替と再読み込み後の保持、説明ポップアップ、コンポーネント1：カイヨワの4列（パイディア↔ルドゥス）に強さのある列すべてへ同時に置かれること・列をまたぐ選択線・組み合わせ・弱い要素からの追加、コンポーネント2：二軸四象限マップのドラッグ配置・軸の編集・空白への付箋・Deleteでの取り外し・再読み込み後の保存）。`tests/screenshots.spec.ts` の撮影2件も成功し、`docs/images/react-*.png` を生成。
   - この環境ではプロジェクトのPlaywright 1.65用ブラウザを取得できないため、リポジトリ外の一時設定で起動ファイルだけを同梱済みChromiumに差し替えて実行。テスト内容と `playwright.config.ts` は変更していません。
 - ポータブル版 `tests/portable-smoke.py`：16項目すべて成功（分類タイル数の期待値を12に更新）。README用のポータブル版画像を再生成。
 - 手動確認：ライト／ダーク／OS追従、390px幅（横はみ出しなし、切り替えとナビの重なりなし）、ポップアップ、二軸マップのドラッグ。

diff --git a/docs/ARCHITECTURE.md b/docs/ARCHITECTURE.md
@@ -49,9 +49,11 @@ tag or mechanic is missing or malformed.
 They answer different questions and share no position data.
 
 **1. Caillois map (`src/core/caillois.ts`, `PlayMap.tsx`).** Agon, alea, mimicry and ilinx
-are treated as four independent 0-3 intensities, not exclusive classes or opposite poles:
-every card is drawn on all four scales at once, plus a separate paidia ↔ ludus scale
-(`ludus`, `data/editorial/ludus.psv`). A hypothesis averages its materials. The core
+are treated as four independent 0-3 intensities, not exclusive classes or opposite poles.
+The view keeps Caillois' table layout — four element columns, paidia (top) to ludus
+(bottom, `ludus`, `data/editorial/ludus.psv`) — but a card appears in every column where it
+has strength (marker size = intensity) and the selected card is linked across columns;
+column tint follows the board's average intensity, not an exclusive share. A hypothesis averages its materials. The core
 computes per-element board averages, how many cards clearly contain each element, the
 six pairwise co-occurrences (with Caillois' own notes on each pairing), weak elements
 (average < 1) and deterministic suggestions that add an element without requiring it to
